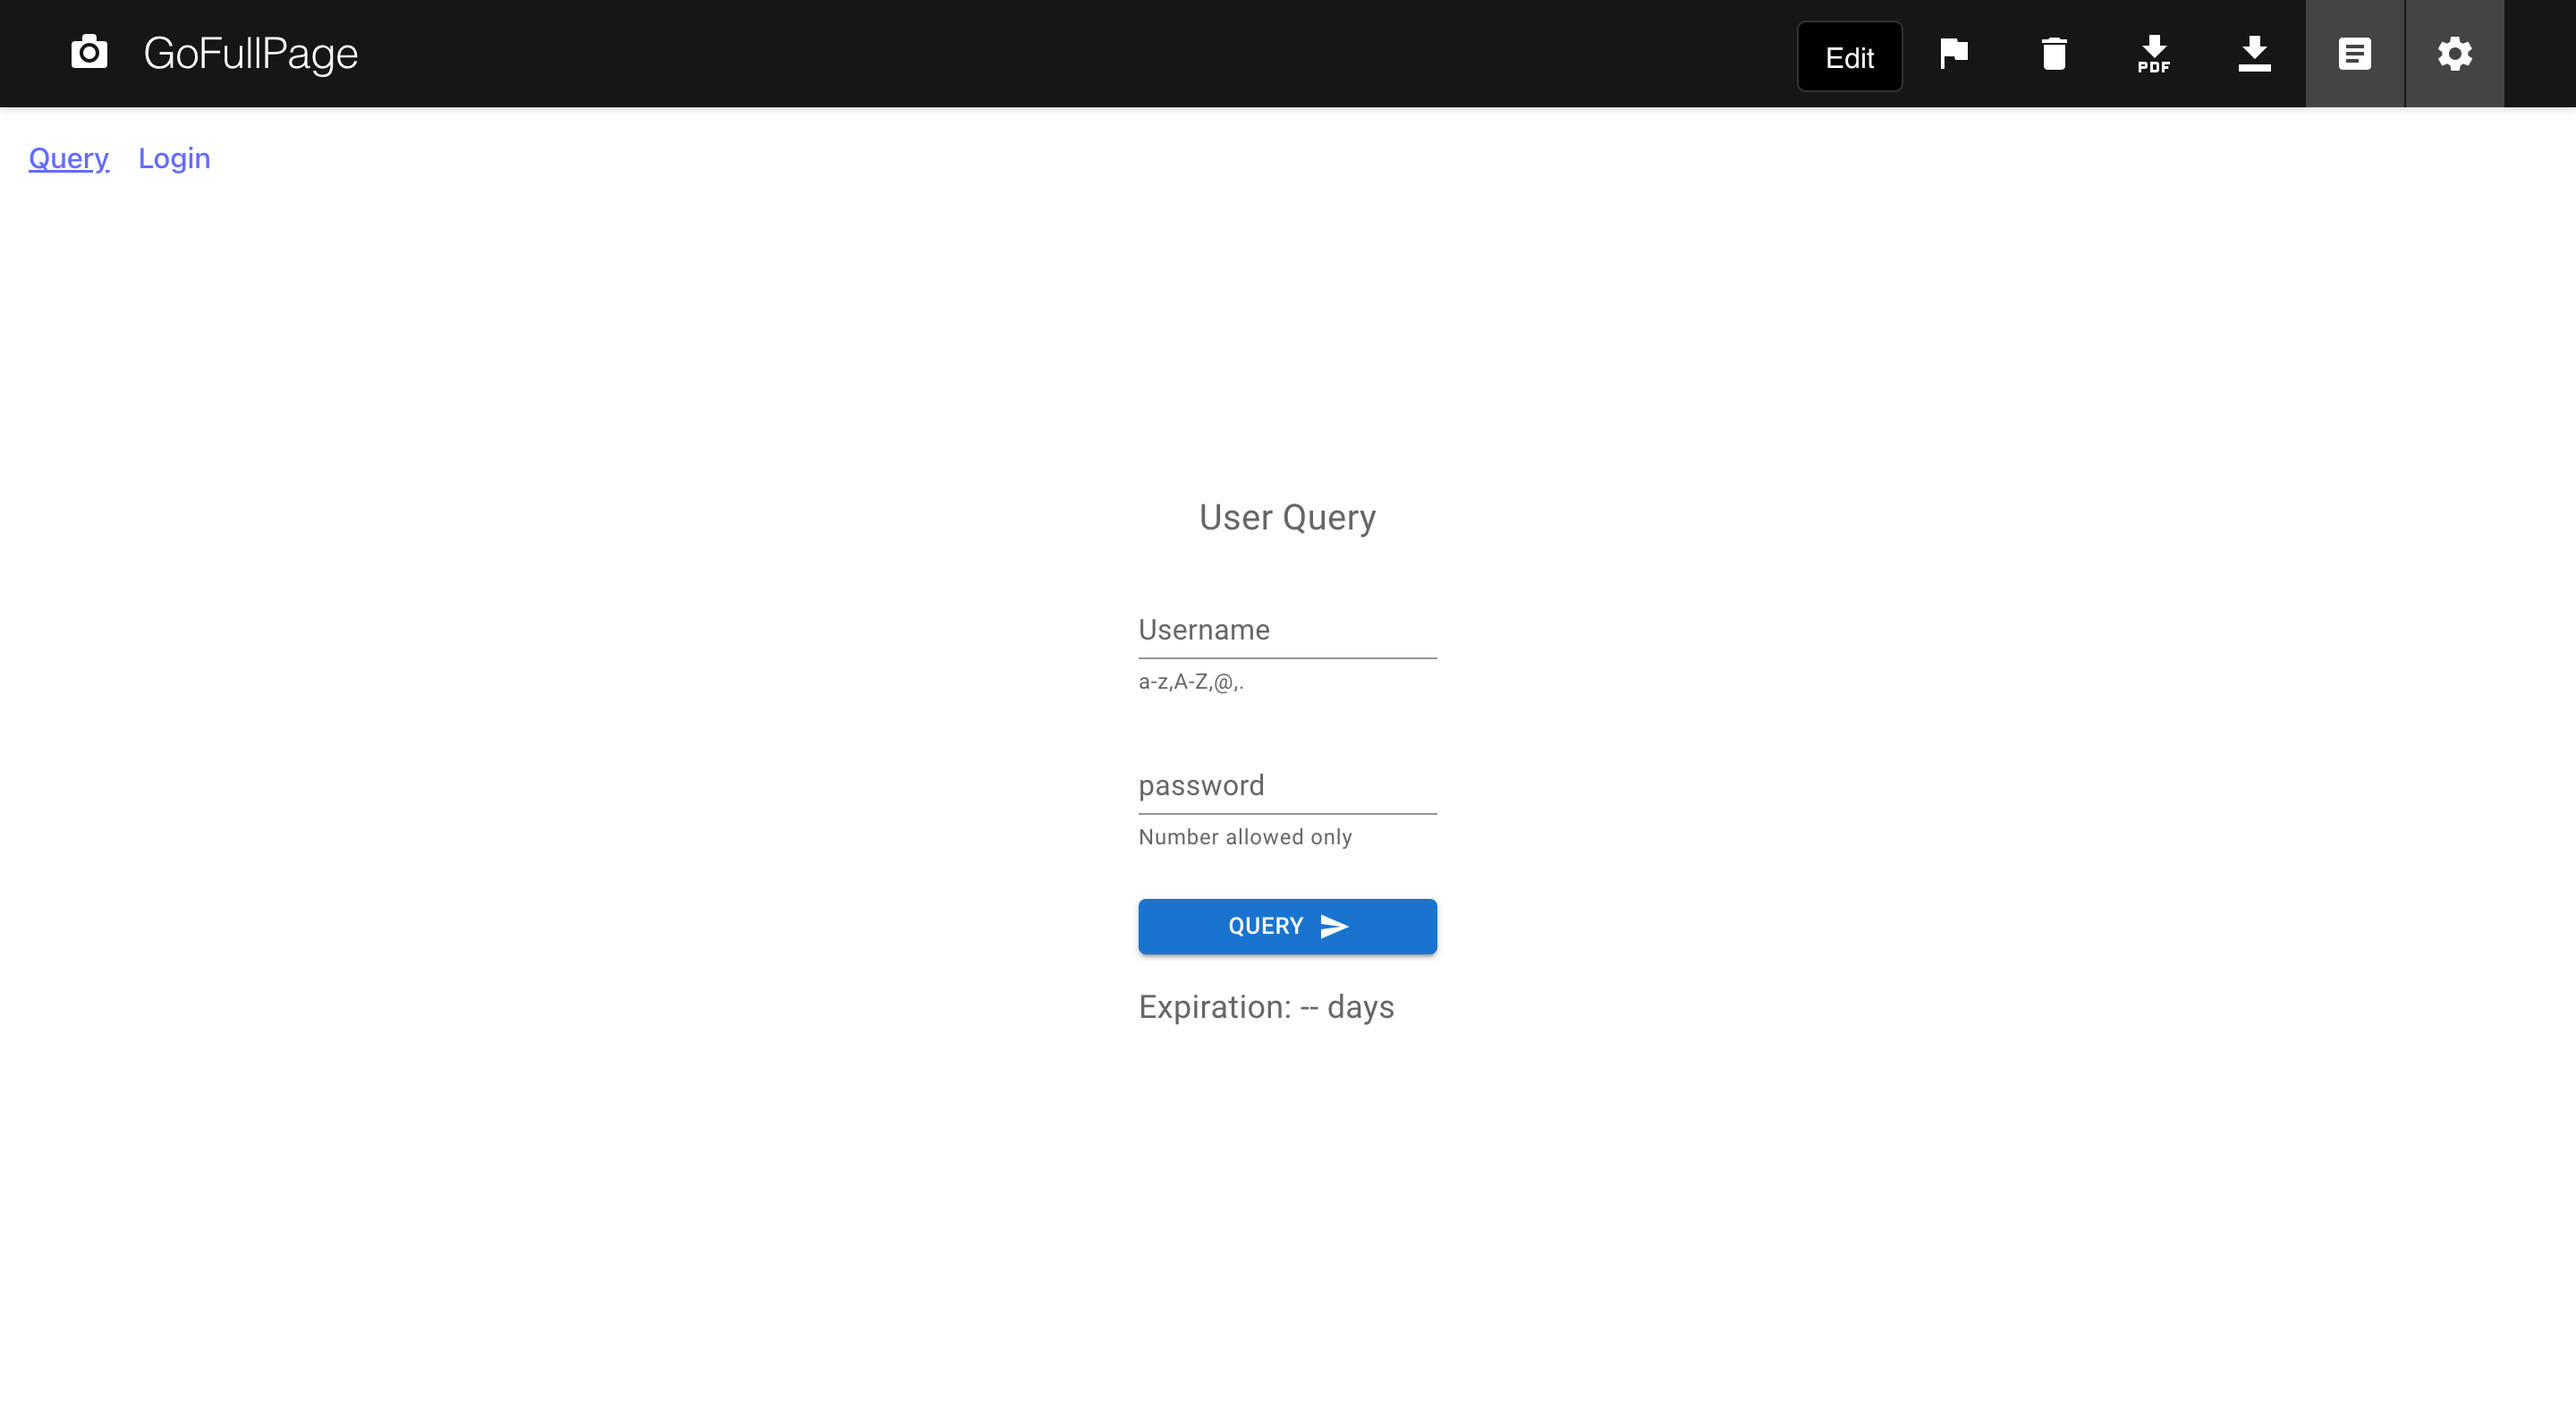
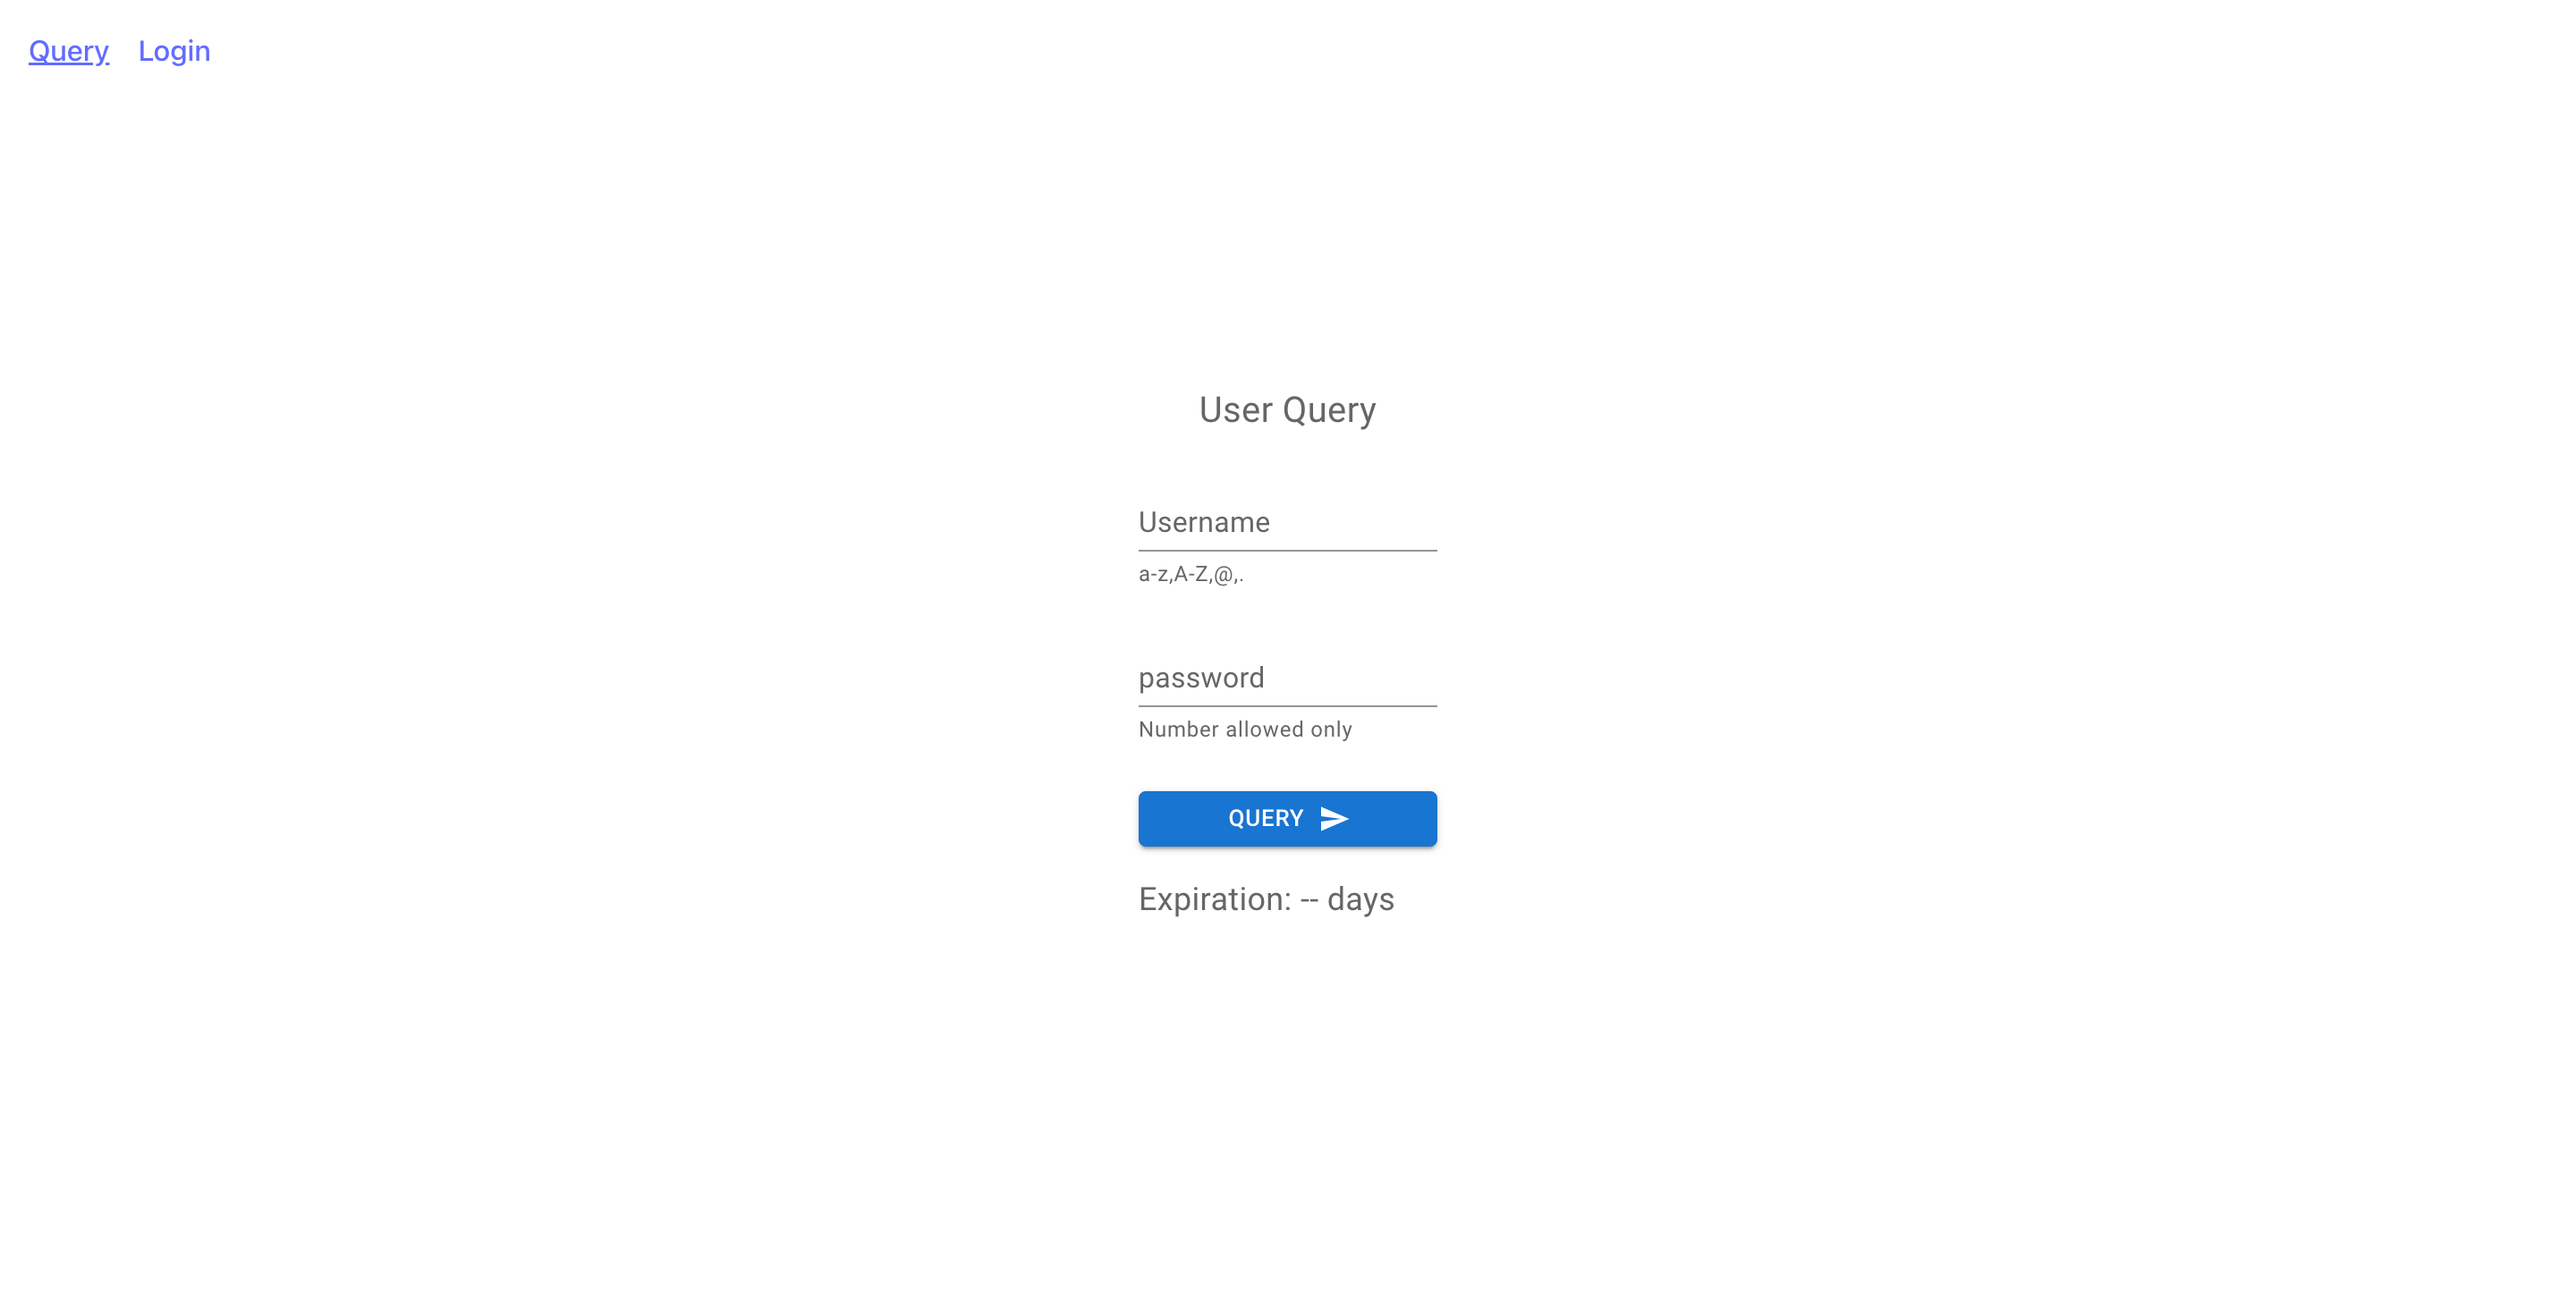
chore: captures added and README.md updated

Changed region(s): [[0.0, 0.0, 1.0, 0.1231], [0.4375, 0.3078, 0.5625, 0.7387]]

diff --git a/README.md b/README.md
@@ -1,8 +1,10 @@
 ## Trojan Web Manager
 
 This is a web based user management system for trojan server
-
-
+![login capture](./captures/login.png?raw=true "login")
+![query capture](./captures/query.png?raw=true "query")
+![add user capture](./captures/adduser.png?raw=true "adduser")
+![users capture](./captures/users.jpg?raw=true "users")
 #### prerequisites
 1. Trojan user table should be created already using following sql
 ```
@@ -113,3 +115,17 @@ http://127.0.0.1:8000
 ```
 #### Login system using username and password in .env
 
+## How to start and devlop the project
+#### prerequisites
+1. checkout the source code
+```
+git checkout ${project-url}
+```
+2. cd to the source code
+```
+cd /path/to/the/source/code
+```
+3. start the development environment
+```
+pnpm run dev
+```
